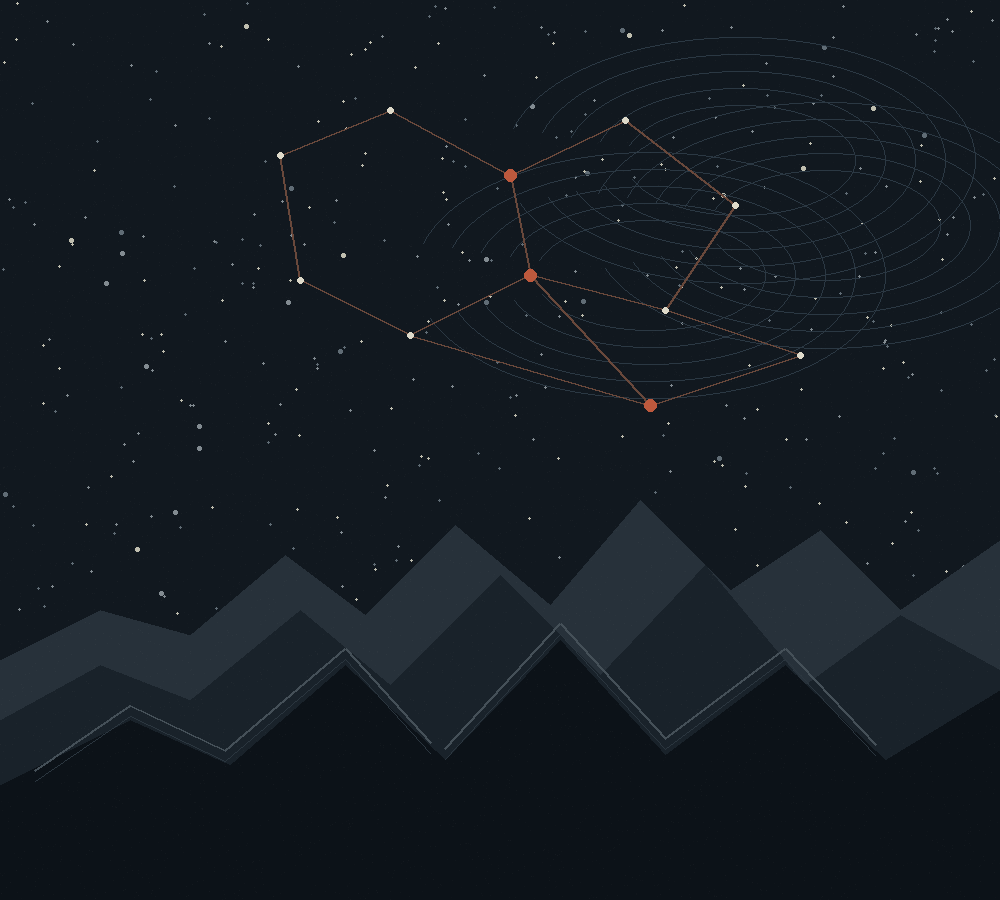
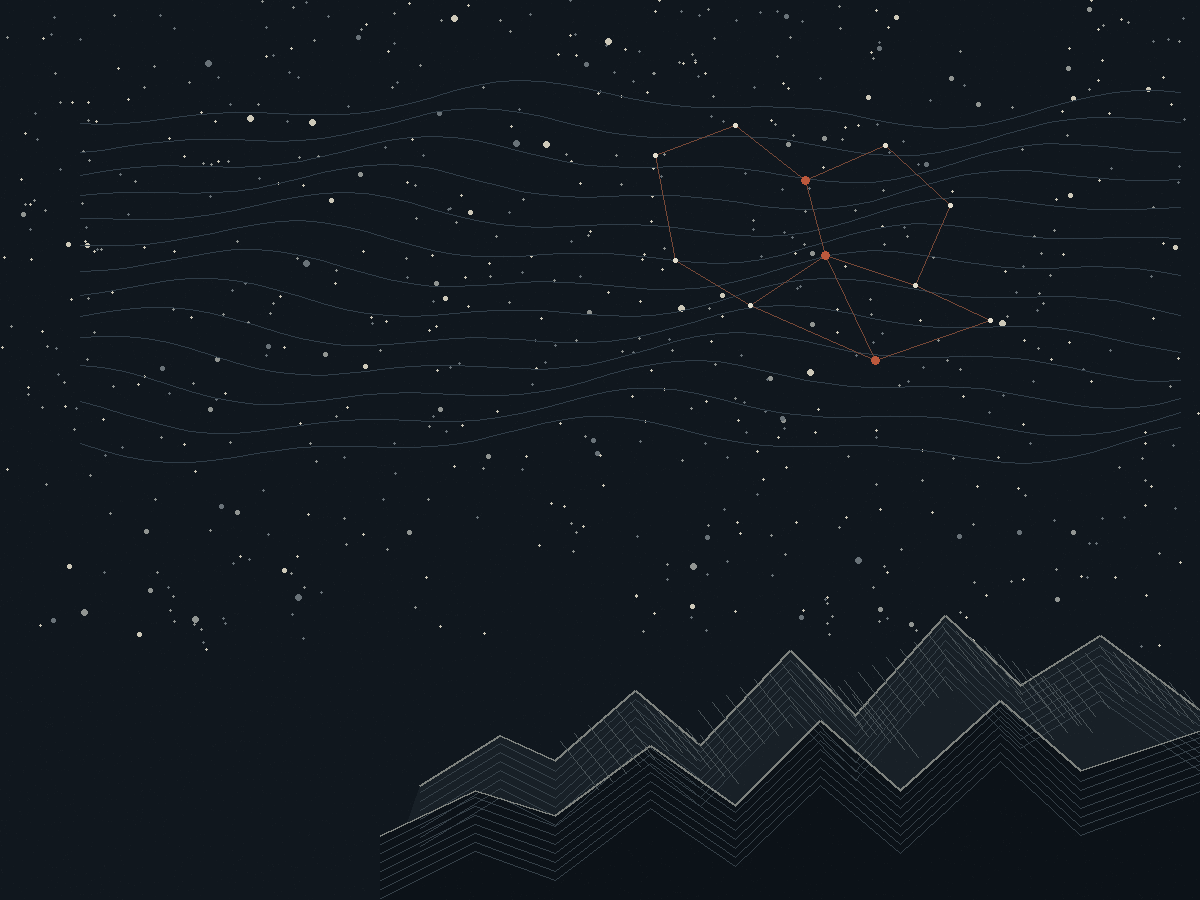
Add files via upload

diff --git a/src/styles/global.css b/src/styles/global.css
@@ -1307,3 +1307,63 @@ body:has(.about-grid) .photo-frame-v54{
   .hero-v62-tagline{margin-top:36px}
   .hero-v62-art{min-height:290px}
 }
+
+/* ===== V6.2.1 HERO REFINEMENT ===== */
+.hero-v62-grid{
+  min-height:535px;
+  grid-template-columns:minmax(0,1.08fr) minmax(410px,.92fr);
+}
+.hero-v62-copy{
+  padding:58px 70px 58px 0;
+}
+.hero-v62 h1{
+  max-width:690px;
+  font-size:clamp(2.55rem,4.15vw,4.35rem);
+  line-height:1.015;
+  letter-spacing:-.04em;
+  margin-bottom:25px;
+}
+.hero-v62-copy > p{
+  max-width:610px;
+  margin-bottom:28px;
+}
+.hero-v62-tagline{
+  margin-top:39px;
+  padding-top:0;
+  border-top:0;
+  font-family:var(--serif);
+  font-style:italic;
+  font-size:1rem;
+  letter-spacing:0;
+  text-transform:none;
+  color:var(--forest);
+}
+.hero-v62-art{
+  min-height:535px;
+}
+.hero-v62-art:before{
+  width:175px;
+  background:
+    linear-gradient(90deg,
+      var(--paper) 0%,
+      rgba(245,239,230,.96) 18%,
+      rgba(245,239,230,.74) 38%,
+      rgba(245,239,230,.34) 62%,
+      rgba(245,239,230,.08) 82%,
+      rgba(245,239,230,0) 100%);
+}
+.hero-v62-art img{
+  object-position:58% center;
+}
+@media(max-width:900px){
+  .hero-v62-copy{padding:50px 0 44px}
+  .hero-v62-art{min-height:340px}
+  .hero-v62-art:before{
+    width:auto;height:95px;
+    background:linear-gradient(180deg,
+      var(--paper) 0%,
+      rgba(245,239,230,.82) 28%,
+      rgba(245,239,230,.25) 68%,
+      rgba(245,239,230,0) 100%);
+  }
+}

diff --git a/README.md b/README.md
@@ -1,20 +1,18 @@
-# averymoon.co — V6.2 Home Hero V1
+# averymoon.co — V6.2.1 Home Hero Refined
 
-Built from V6.1.5.
+Correction pass on V6.2.
 
-This is intentionally a homepage-first experiment.
-
-Hero changes:
-- Replaces the old image + overlay composition with one integrated asymmetric hero
-- Cream editorial copy field on the left
-- Dedicated illustrated charcoal/navy night landscape on the right
-- Star field + topographic/engraved mountain forms + system-network constellation
-- Avery Moon appears deliberately above the value proposition
-- New headline: “I design systems that make complex work easier to navigate.”
-- Supporting copy focuses on scattered information, workflows, and institutional knowledge
-- Primary CTA: View Built Systems
-- Secondary CTA: About my approach
-- Keeps “Better systems. Better outcomes. Stronger teams.” as a quiet grounding line
-- Existing results band and every section below it remain unchanged
-
-V6.1.5 contact, social metadata, social card, Built Systems graphics, and terracotta CTAs are preserved.
+Changes:
+- Removed the duplicate “Avery Moon” label from the hero; identity remains in the site header
+- Reduced headline scale and tightened the first-viewport composition
+- Kept the new value proposition, supporting copy, and CTAs
+- Rebuilt hero artwork:
+  - smaller, more delicate system-network constellation
+  - finer topographic lines distributed through the sky
+  - engraved/cartographic mountain treatment rather than geometric polygon peaks
+  - mountains occupy the lower third rather than dominating the image
+  - charcoal/navy atmosphere retained
+- Softened and widened the cream-to-night transition
+- Changed the tagline from tiny uppercase to restrained serif italic
+- Existing metric band and all sections below remain unchanged
+- V6.1.5 contact, social metadata/card, and Built Systems polish remain intact
